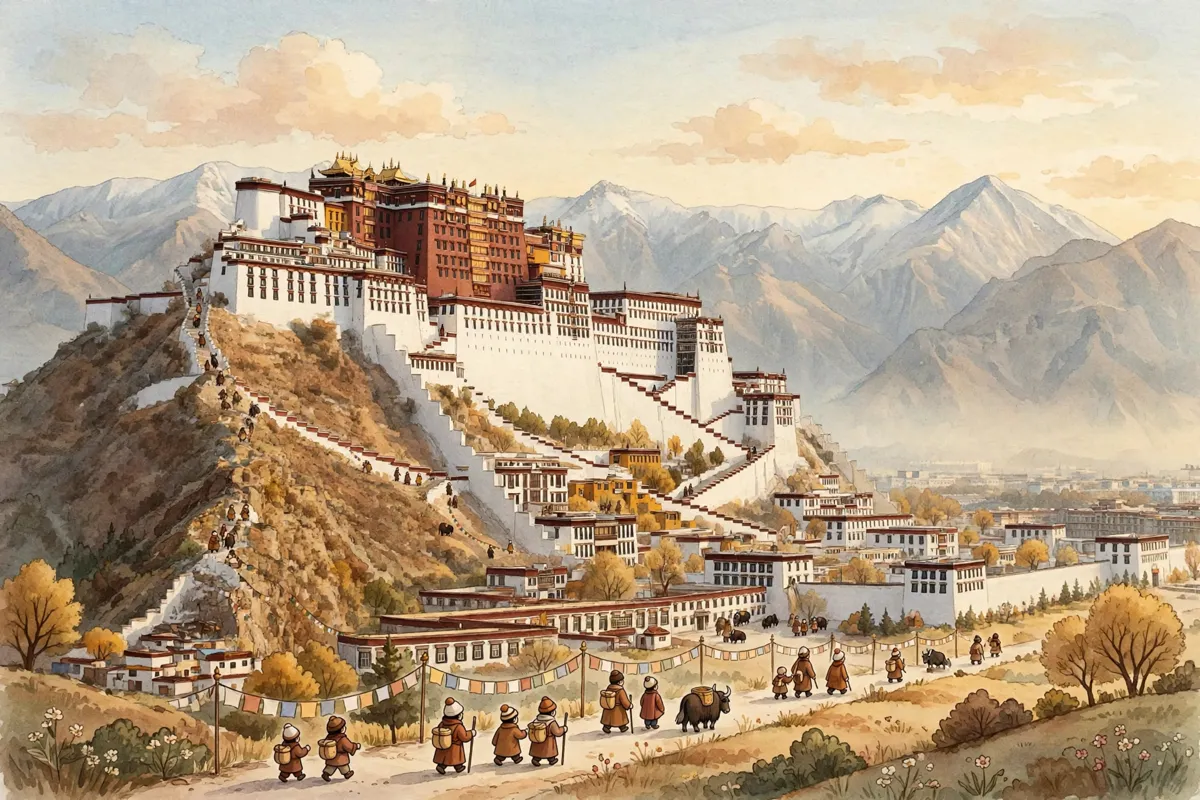
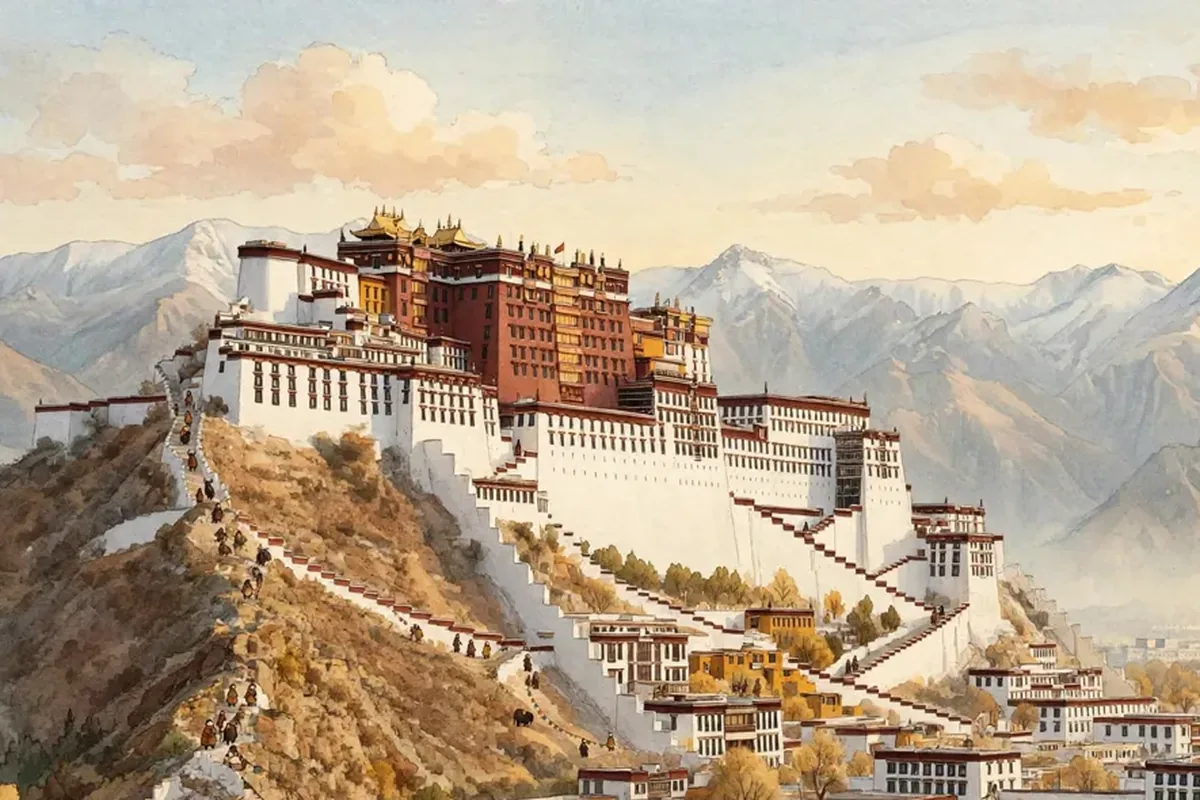
Hide the 4 journal movies with religious narration; reword their places
Angkor Wat, Potala Palace, Timbuktu and Uluru now talk only about the
place (architecture, age, materials, geography), from the PR 399 reword
file. Their movies and captions are withheld until new voice tracks
exist; the player shows the picture with its not-ready note. The Potala
picture is cropped to remove the procession and prayer flags.

The build check accepts exactly these 4 images without a movie
(WITHHELD_IDS); any other missing movie still fails.

diff --git a/src/components/home-journal.data.ts b/src/components/home-journal.data.ts
@@ -1472,7 +1472,7 @@ export const JOURNAL_NOTES: JournalNote[] = [
     "place": "Angkor Wat",
     "ring": "world",
     "where": "The World",
-    "story": "The temple complex in Cambodia was built in the 12th century as a Hindu monument and later became a Buddhist one. Its five towers are the aim point.",
+    "story": "This huge stone complex near Siem Reap in Cambodia was built in the early 12th century. It covers about 160 hectares, and its five towers are the aim point.",
     "sourceLabel": "UNESCO",
     "sourceHref": "https://whc.unesco.org/en/list/668/",
     "confidence": {
@@ -1480,7 +1480,7 @@ export const JOURNAL_NOTES: JournalNote[] = [
       "basis": "Named source recorded in the catalog"
     },
     "image": "images/journal/angkor.webp",
-    "imageAlt": "Storybook drawing of Angkor Wat, the great temple with its five towers reflected in the lotus pond at sunrise."
+    "imageAlt": "Storybook drawing of Angkor Wat, the great stone complex with its five towers reflected in the pond at sunrise."
   },
   {
     "id": "petra",
@@ -1517,7 +1517,7 @@ export const JOURNAL_NOTES: JournalNote[] = [
     "place": "Uluru",
     "ring": "world",
     "where": "The World",
-    "story": "The sandstone monolith in Australia's Northern Territory is a sacred place for the Anangu people. The rock itself, not the resort to the north, is the point.",
+    "story": "The huge red sandstone rock rises alone from the desert in Australia's Northern Territory. The rock itself, not the resort to the north, is the point.",
     "sourceLabel": "Parks Australia",
     "sourceHref": "https://parksaustralia.gov.au/uluru/",
     "confidence": {
@@ -1592,7 +1592,7 @@ export const JOURNAL_NOTES: JournalNote[] = [
     "place": "Potala Palace",
     "ring": "world",
     "where": "The World",
-    "story": "The palace rises above Lhasa on a hill that was already sacred before the present buildings. It was the winter home of the Dalai Lamas for centuries.",
+    "story": "The palace sits on Red Mountain in the middle of the Lhasa Valley. Its thick walls of rammed earth and stone hold more than 1,000 rooms.",
     "sourceLabel": "UNESCO",
     "sourceHref": "https://whc.unesco.org/en/list/707/",
     "confidence": {
@@ -1600,14 +1600,14 @@ export const JOURNAL_NOTES: JournalNote[] = [
       "basis": "Named source recorded in the catalog"
     },
     "image": "images/journal/potala.webp",
-    "imageAlt": "Storybook drawing of the Potala Palace, the great palace rising on its sacred hill above Lhasa with pilgrims below."
+    "imageAlt": "Storybook drawing of the Potala Palace, the great white and red palace rising on its rocky hill above Lhasa."
   },
   {
     "id": "timbuktu",
     "place": "Timbuktu",
     "ring": "world",
     "where": "The World",
-    "story": "The city in Mali was a hub of the trans-Saharan trade and of Islamic learning. Its mosques and manuscript libraries still mark the historic center.",
+    "story": "The city in Mali stands at the edge of the Sahara Desert. It was a trading crossroads where salt, gold and books were bought and sold, and its great mud-brick buildings still mark the old center.",
     "sourceLabel": "UNESCO",
     "sourceHref": "https://whc.unesco.org/en/list/119/",
     "confidence": {
@@ -1615,7 +1615,7 @@ export const JOURNAL_NOTES: JournalNote[] = [
       "basis": "Named source recorded in the catalog"
     },
     "image": "images/journal/timbuktu.webp",
-    "imageAlt": "Storybook drawing of Timbuktu, the ancient mud-brick mosques and manuscript library with a camel caravan in the desert."
+    "imageAlt": "Storybook drawing of Timbuktu, the ancient mud-brick buildings and a library with a camel caravan in the desert."
   },
   {
     "id": "galapagos",

diff --git a/src/game/catalog.ts b/src/game/catalog.ts
@@ -1102,7 +1102,7 @@ export const PLACES: Place[] = [
     reveal: [103.86699, 13.41247],
     shape: point(103.86699, 13.41247),
     story:
-      "The temple complex in Cambodia was built in the 12th century as a Hindu monument and later became a Buddhist one. Its five towers are the aim point.",
+      "This huge stone complex near Siem Reap in Cambodia was built in the early 12th century. It covers about 160 hectares, and its five towers are the aim point.",
     source: src("UNESCO", "https://whc.unesco.org/en/list/668/"),
   },
   {
@@ -1135,7 +1135,7 @@ export const PLACES: Place[] = [
     reveal: [131.03688, -25.34443],
     shape: point(131.03688, -25.34443),
     story:
-      "The sandstone monolith in Australia's Northern Territory is a sacred place for the Anangu people. The rock itself, not the resort to the north, is the point.",
+      "The huge red sandstone rock rises alone from the desert in Australia's Northern Territory. The rock itself, not the resort to the north, is the point.",
     source: src("Parks Australia", "https://parksaustralia.gov.au/uluru/"),
   },
   {
@@ -1190,7 +1190,7 @@ export const PLACES: Place[] = [
     reveal: [91.11694, 29.65778],
     shape: point(91.11694, 29.65778),
     story:
-      "The palace rises above Lhasa on a hill that was already sacred before the present buildings. It was the winter home of the Dalai Lamas for centuries.",
+      "The palace sits on Red Mountain in the middle of the Lhasa Valley. Its thick walls of rammed earth and stone hold more than 1,000 rooms.",
     source: src("UNESCO", "https://whc.unesco.org/en/list/707/"),
   },
   {
@@ -1201,7 +1201,7 @@ export const PLACES: Place[] = [
     reveal: [-3.00742, 16.77348],
     shape: point(-3.00742, 16.77348),
     story:
-      "The city in Mali was a hub of the trans-Saharan trade and of Islamic learning. Its mosques and manuscript libraries still mark the historic center.",
+      "The city in Mali stands at the edge of the Sahara Desert. It was a trading crossroads where salt, gold and books were bought and sold, and its great mud-brick buildings still mark the old center.",
     source: src("UNESCO", "https://whc.unesco.org/en/list/119/"),
   },
   {

diff --git a/src/components/journal-transcripts.test.ts b/src/components/journal-transcripts.test.ts
@@ -176,12 +176,12 @@ test("resetJournalTranscriptsCache lets the next call fetch again", async () => 
 
 // --- The real file (captions worker, c5cc7ecf): 106/106 covered --------
 
-test("real transcripts file: version 1, 106 entries, 430 cues", () => {
+test("real transcripts file: version 1, 102 entries (4 withheld), 412 cues", () => {
   const parsed = parseJournalTranscripts(REAL_TRANSCRIPTS);
   assert.ok(parsed !== null);
   assert.equal(parsed!.version, 1);
-  assert.equal(Object.keys(parsed!.transcripts).length, 106);
-  assert.equal(REAL_CUE_TOTAL, 430);
+  assert.equal(Object.keys(parsed!.transcripts).length, 102);
+  assert.equal(REAL_CUE_TOTAL, 412);
 });
 
 test("real Old Faithful: the 4 approved lines, 2.1 s voice-free gap 4.50-6.60", () => {
@@ -217,7 +217,7 @@ test("real file: every entry's cues sit inside the 10 s clip, sorted, non-overla
 
 test("real file: the known cue-count exceptions (robbers-cave 3, split-L1 entries 5)", () => {
   assert.equal(REAL_TRANSCRIPTS.transcripts["robbers-cave"]!.cues.length, 3);
-  for (const id of ["victoria-falls", "fushimi", "iguazu", "tongariki", "potala", "timbuktu", "galapagos"]) {
+  for (const id of ["victoria-falls", "fushimi", "iguazu", "tongariki", "galapagos"]) {
     assert.equal(REAL_TRANSCRIPTS.transcripts[id]!.cues.length, 5, `${id} keeps two L1 cues`);
   }
 });
@@ -246,7 +246,7 @@ function parseVttCues(vtt: string): { start: number; end: number; text: string }
 
 test("real files: every VTT matches its JSON entry cue-for-cue (count, boundaries, text)", () => {
   const vttFiles = readdirSync("public/videos/captions").filter((f) => f.endsWith(".vtt"));
-  assert.equal(vttFiles.length, 106);
+  assert.equal(vttFiles.length, 102);
   for (const [id, t] of Object.entries(REAL_TRANSCRIPTS.transcripts)) {
     const vtt = readFileSync(`public/videos/captions/${id}.vtt`, "utf8");
     assert.ok(vtt.startsWith("WEBVTT"), `${id}: WEBVTT header`);

diff --git a/src/game/starters.ts b/src/game/starters.ts
@@ -3565,7 +3565,7 @@ export const STARTERS: Starter[] = [
     "Potala Palace",
     91.117,
     29.658,
-    "The Potala climbs a hill above Lhasa in white and red blocks. It was a winter seat of the Dalai Lamas and still dominates the city.",
+    "The Potala climbs a hill above Lhasa in white and red blocks. It has more than 1,000 rooms and still dominates the city.",
     "Potala_Palace",
     2,
     undefined,
@@ -3667,7 +3667,7 @@ export const STARTERS: Starter[] = [
     "Uluru",
     131.037,
     -25.345,
-    "A sandstone monolith stands alone on the desert plain at the center of the continent. The rock changes color with the light, and the base is lined with sacred sites.",
+    "A sandstone monolith stands alone on the desert plain at the center of the continent. The rock changes color with the light, and its sandstone is about half a billion years old.",
     "Uluru",
     1,
     undefined,
@@ -3771,7 +3771,7 @@ export const STARTERS: Starter[] = [
     "Angkor Wat",
     103.867,
     13.412,
-    "A temple mountain of galleries and towers rises inside a wide moat. Bas-reliefs along the walls tell episodes from Hindu epic poems.",
+    "A great stone complex of galleries and towers rises inside a wide moat. Its five central towers are reached through three galleries.",
     "Angkor_Wat",
     1,
     "KH",

diff --git a/src/components/journal-movies.test.ts b/src/components/journal-movies.test.ts
@@ -23,7 +23,8 @@ test("parseJournalMovieManifest accepts the real manifest", () => {
   assert.ok(parsed !== null);
   assert.equal(parsed!.baseUrl, "https://veeresh-bikkaneti.github.io/meridian-media/journal/");
   assert.equal(parsed!.baseUrl, JOURNAL_MOVIE_BASE_URL);
-  assert.equal(Object.keys(parsed!.movies).length, 106);
+  // 106 places, 4 movies withheld (angkor, potala, timbuktu, uluru).
+  assert.equal(Object.keys(parsed!.movies).length, 102);
   assert.equal(parsed!.version, 1);
 });
 
